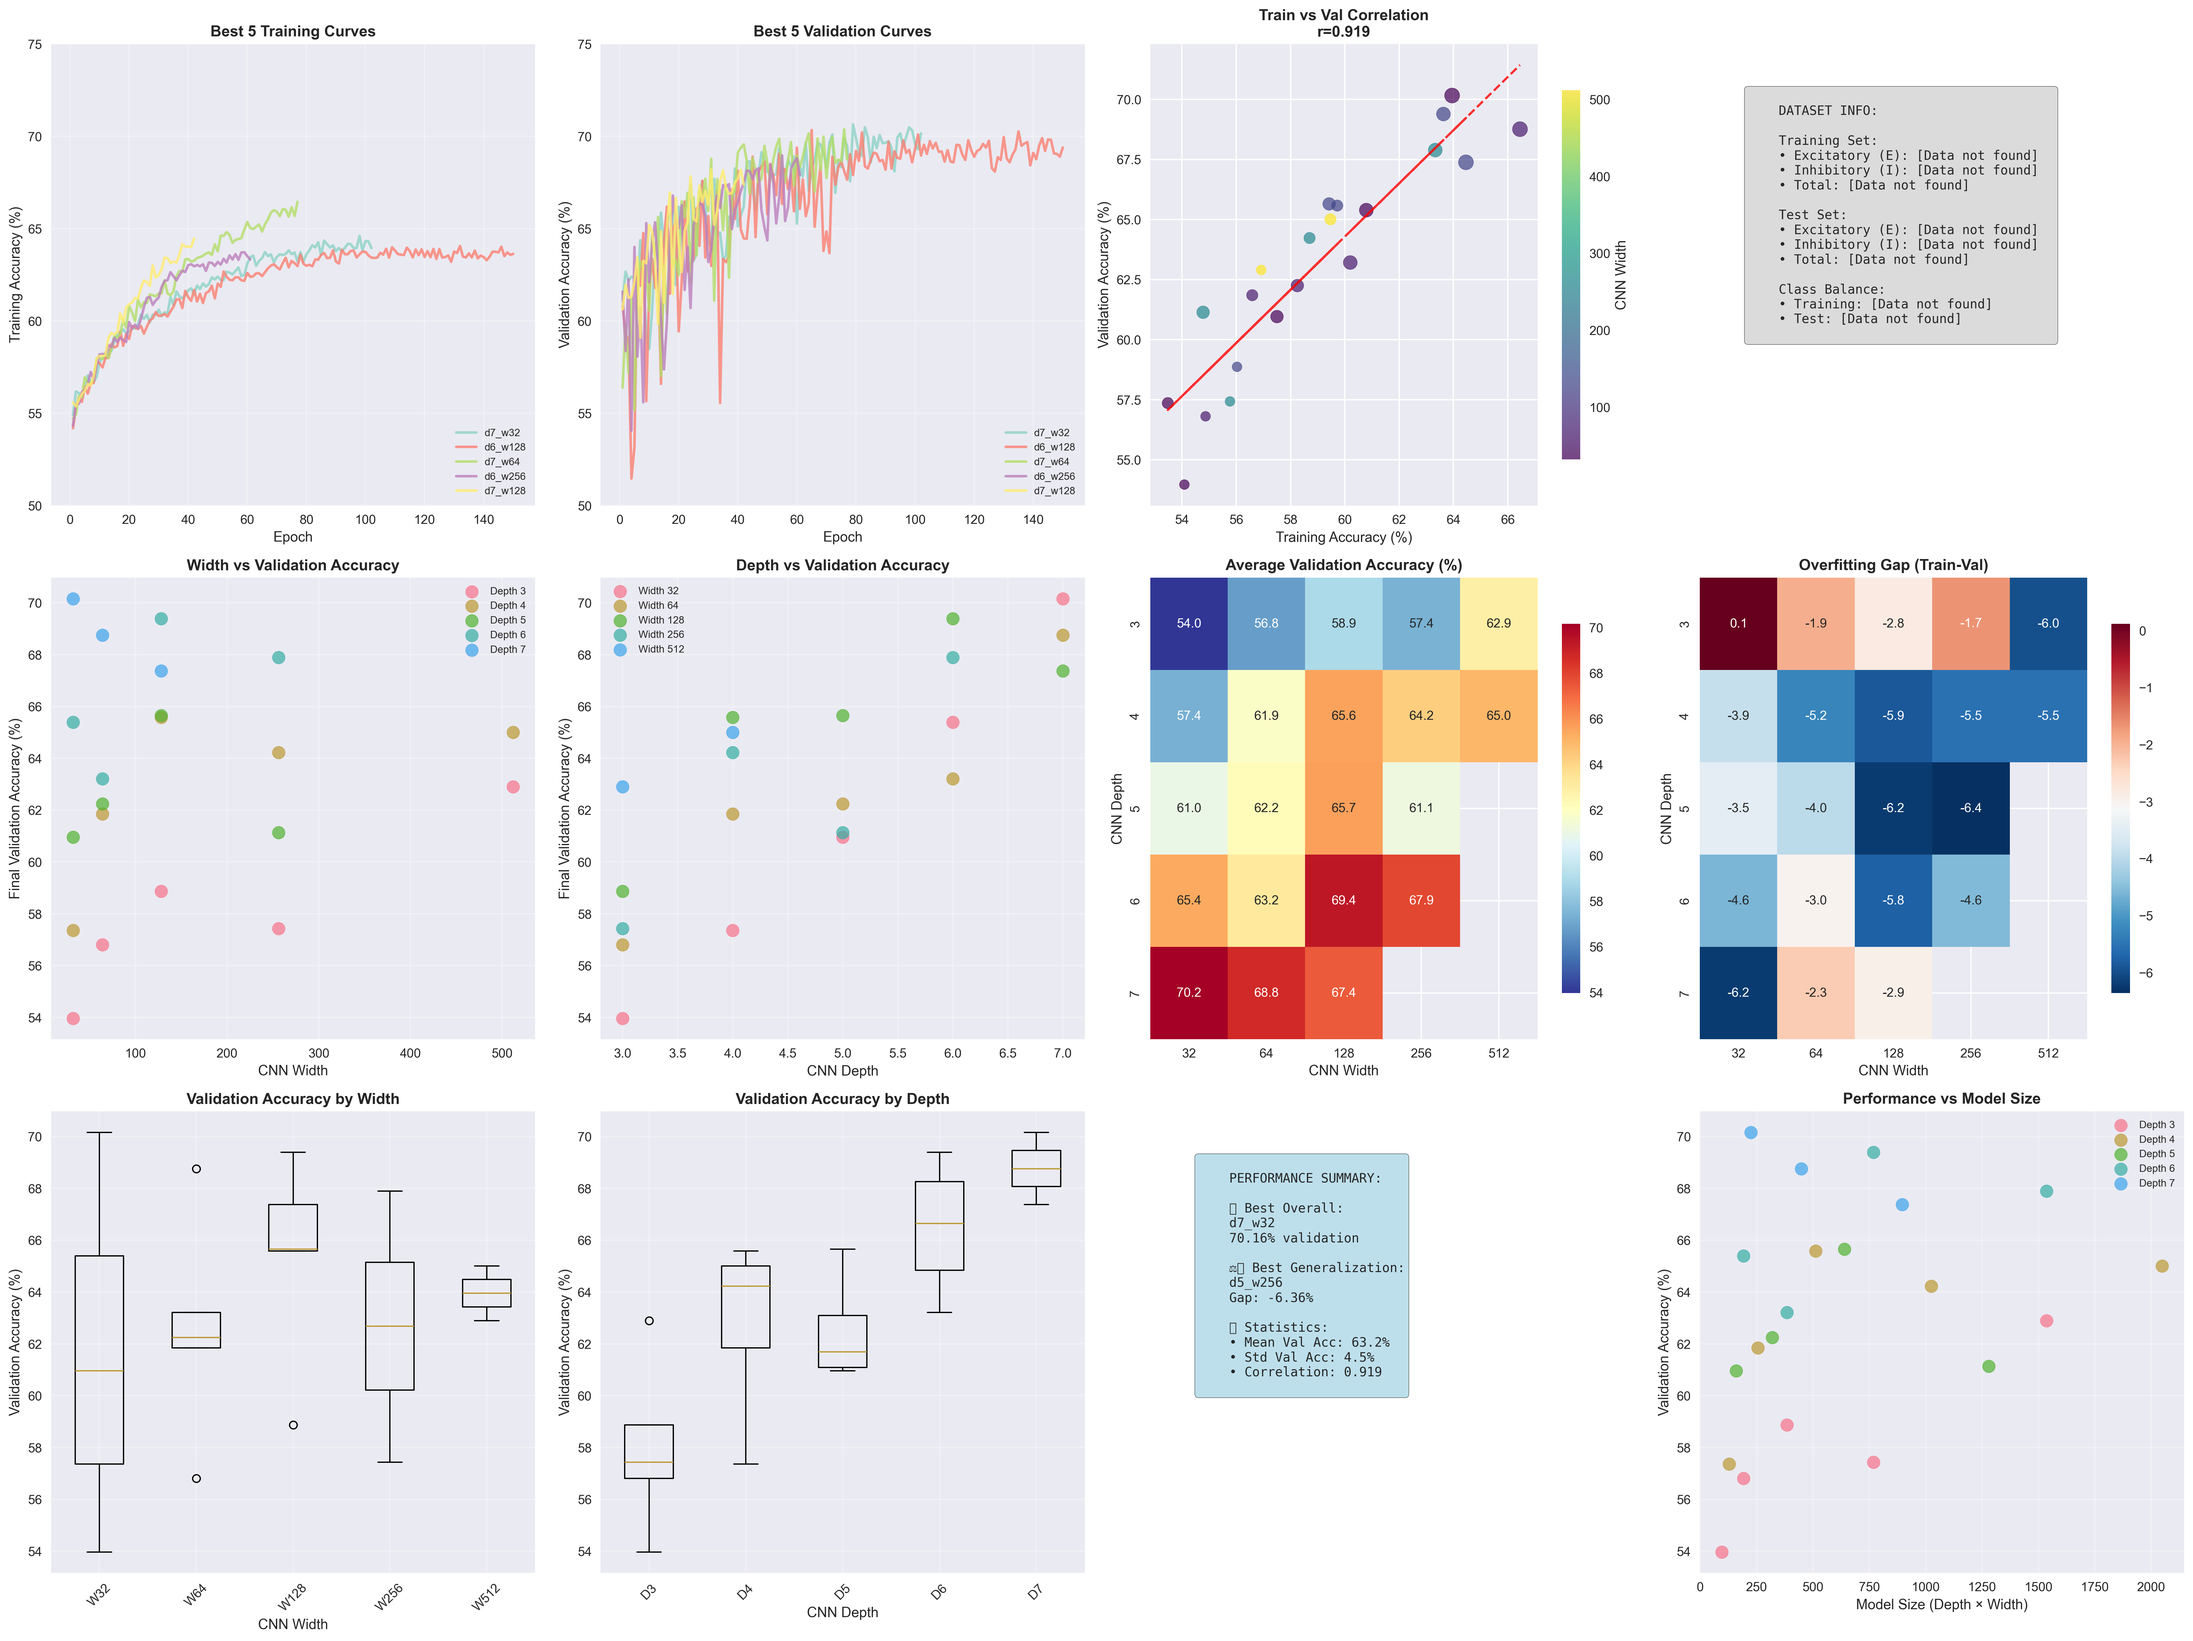
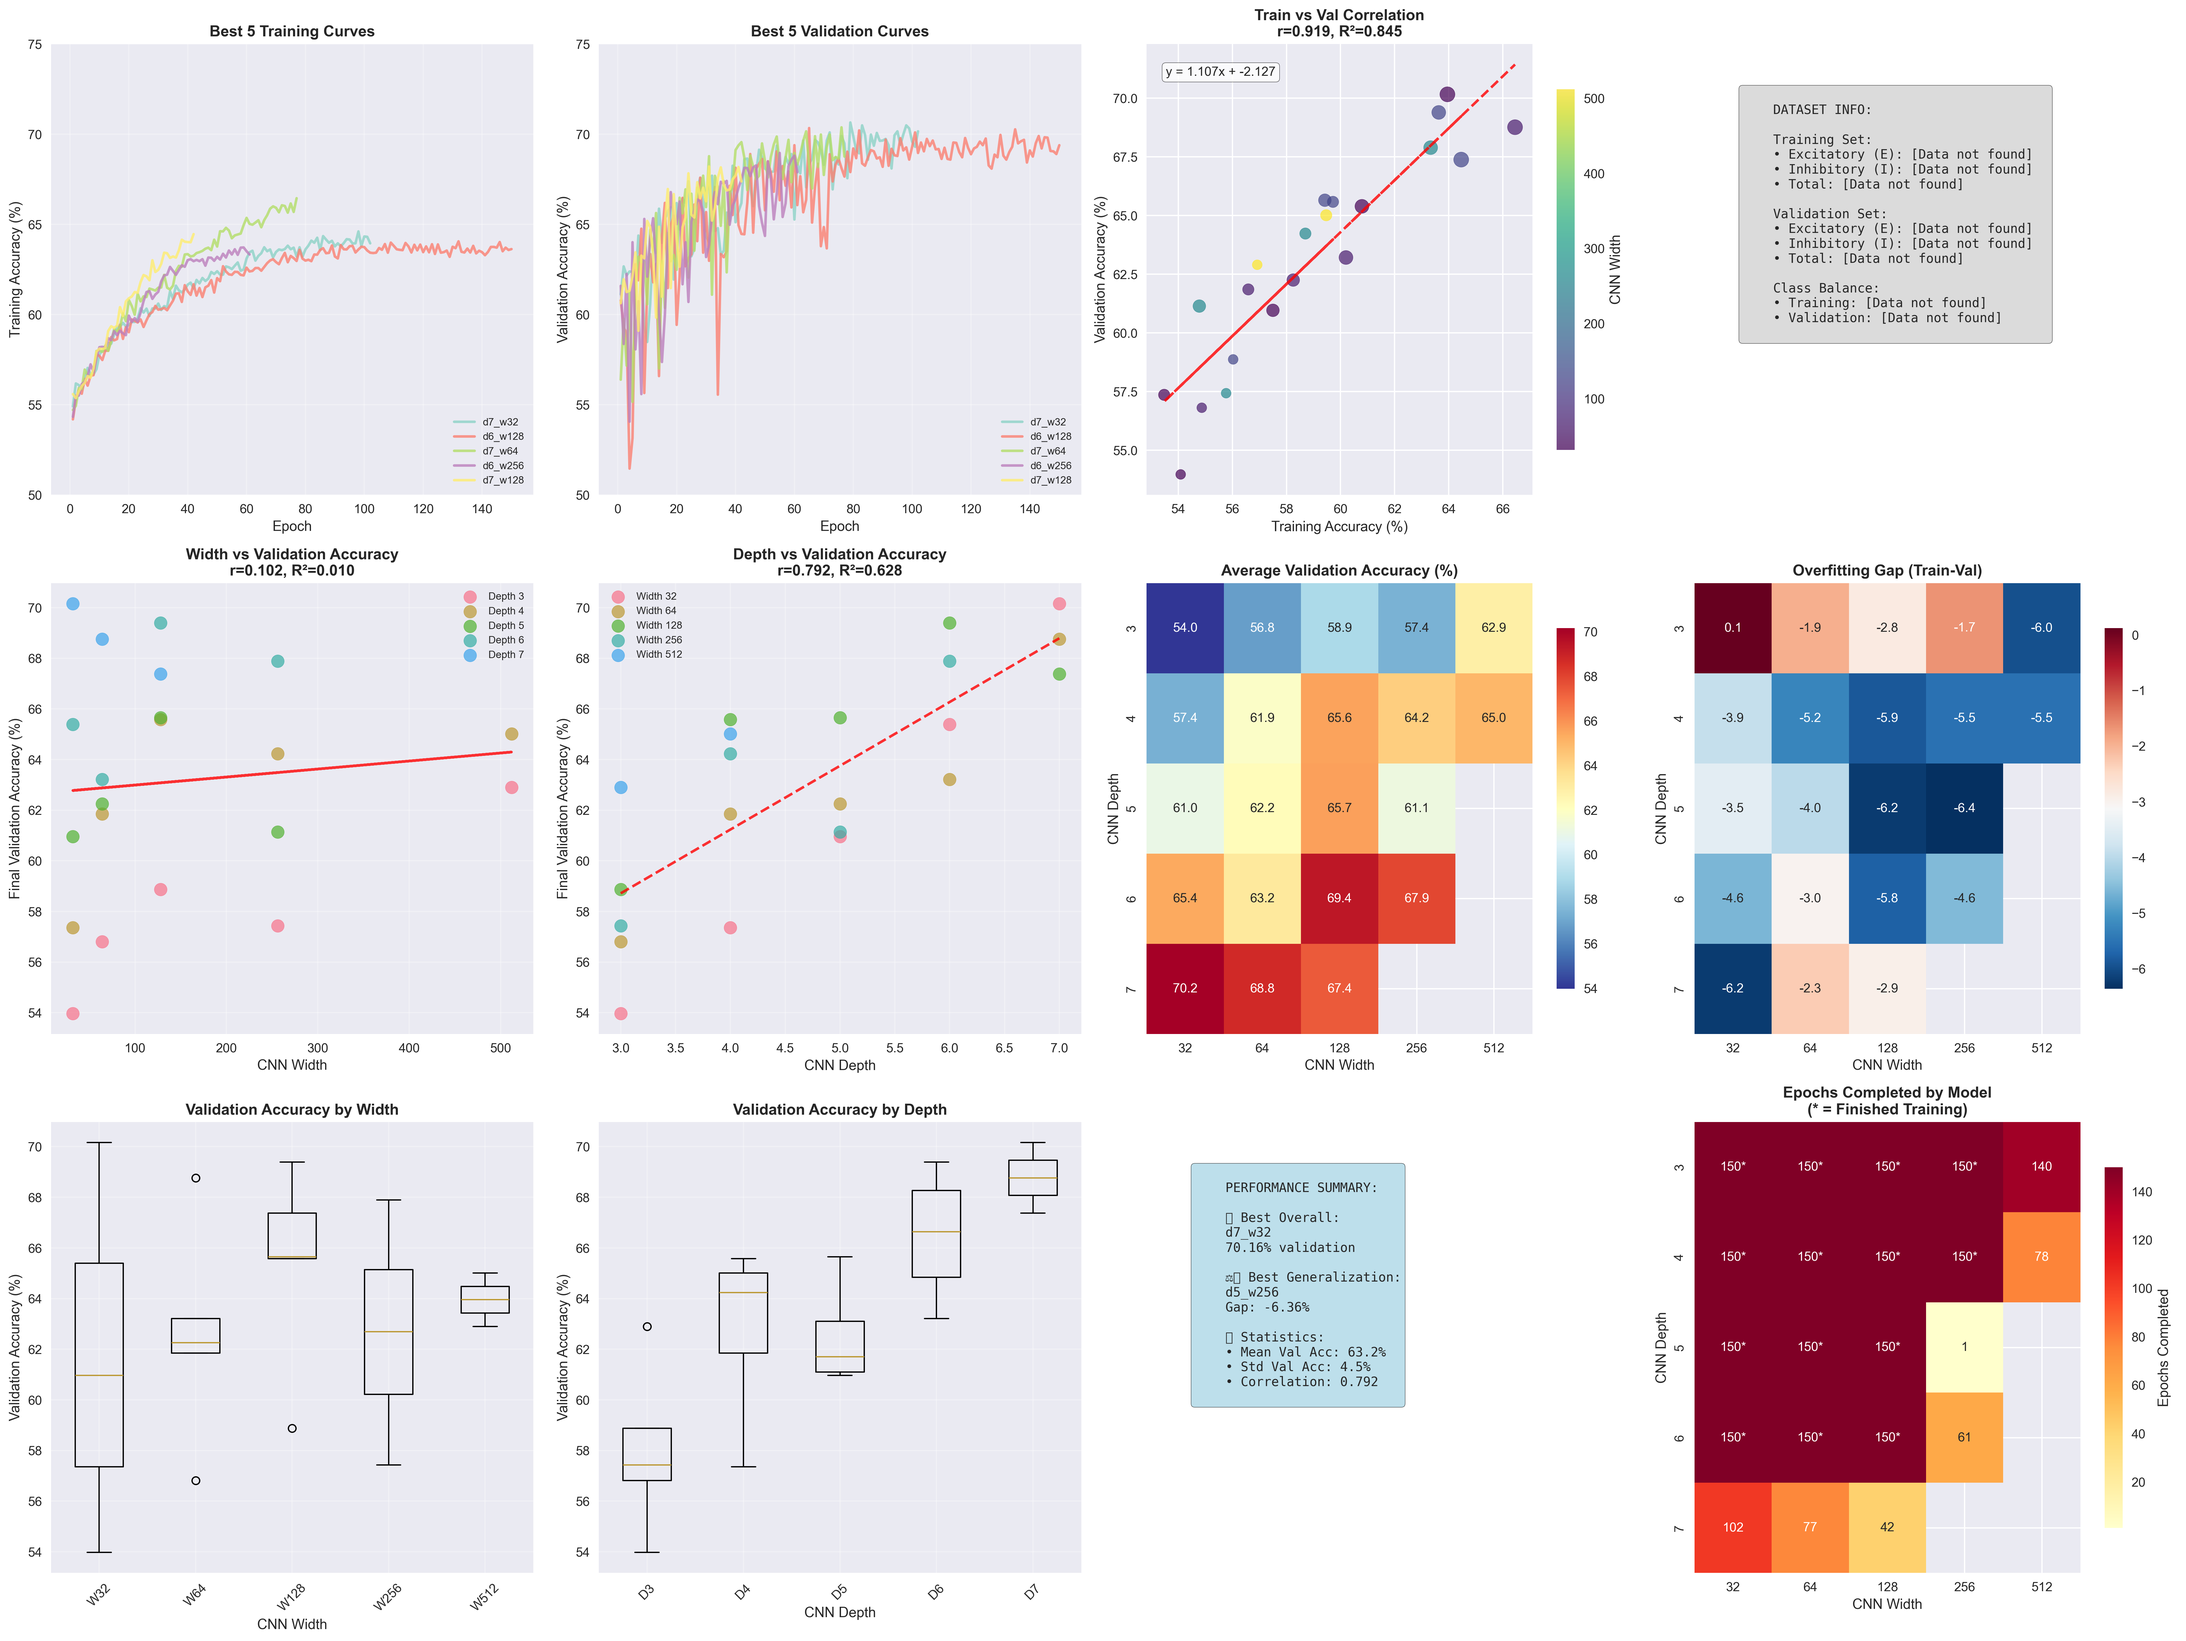
depth sweep analysis

diff --git a/sweep_analysis.py b/sweep_analysis.py
@@ -109,14 +109,24 @@ def create_comprehensive_analysis(df, save_path='comprehensive_sweep_analysis.pn
     # Add trend line
     z = np.polyfit(final_data['train_acc'], final_data['val_acc'], 1)
     p = np.poly1d(z)
-    ax3.plot(final_data['train_acc'], p(final_data['train_acc']), "r--", alpha=0.8)
+    ax3.plot(final_data['train_acc'], p(final_data['train_acc']), "r--", alpha=0.8, linewidth=2)
     
-    # Calculate correlation
+    # Calculate correlation and R-squared
     correlation = final_data['train_acc'].corr(final_data['val_acc'])
+    r_squared = correlation ** 2
+    
+    # Calculate regression equation
+    slope = z[0]
+    intercept = z[1]
     
     ax3.set_xlabel('Training Accuracy (%)')
     ax3.set_ylabel('Validation Accuracy (%)')
-    ax3.set_title(f'Train vs Val Correlation\nr={correlation:.3f}', fontsize=12, fontweight='bold')
+    ax3.set_title(f'Train vs Val Correlation\nr={correlation:.3f}, R²={r_squared:.3f}', fontsize=12, fontweight='bold')
+    
+    # Add regression equation annotation
+    ax3.text(0.05, 0.95, f'y = {slope:.3f}x + {intercept:.3f}', 
+             transform=ax3.transAxes, fontsize=10, verticalalignment='top',
+             bbox=dict(boxstyle="round,pad=0.3", facecolor="white", alpha=0.8))
     
     # Add colorbar
     cbar = plt.colorbar(scatter, ax=ax3, shrink=0.8)
@@ -230,9 +240,18 @@ def create_comprehensive_analysis(df, save_path='comprehensive_sweep_analysis.pn
         ax5.scatter(depth_data['cnn_width'], depth_data['val_acc'], 
                    label=f'Depth {depth}', s=100, alpha=0.7)
     
+    # Add overall regression line
+    z = np.polyfit(final_data['cnn_width'], final_data['val_acc'], 1)
+    p = np.poly1d(z)
+    ax5.plot(final_data['cnn_width'], p(final_data['cnn_width']), "r--", alpha=0.8, linewidth=2)
+    
+    # Calculate correlation and R-squared
+    correlation = final_data['cnn_width'].corr(final_data['val_acc'])
+    r_squared = correlation ** 2
+    
     ax5.set_xlabel('CNN Width')
     ax5.set_ylabel('Final Validation Accuracy (%)')
-    ax5.set_title('Width vs Validation Accuracy', fontsize=12, fontweight='bold')
+    ax5.set_title(f'Width vs Validation Accuracy\nr={correlation:.3f}, R²={r_squared:.3f}', fontsize=12, fontweight='bold')
     ax5.legend(fontsize=8)
     ax5.grid(True, alpha=0.3)
     
@@ -244,9 +263,18 @@ def create_comprehensive_analysis(df, save_path='comprehensive_sweep_analysis.pn
         ax6.scatter(width_data['cnn_depth'], width_data['val_acc'], 
                    label=f'Width {width}', s=100, alpha=0.7)
     
+    # Add overall regression line
+    z = np.polyfit(final_data['cnn_depth'], final_data['val_acc'], 1)
+    p = np.poly1d(z)
+    ax6.plot(final_data['cnn_depth'], p(final_data['cnn_depth']), "r--", alpha=0.8, linewidth=2)
+    
+    # Calculate correlation and R-squared
+    correlation = final_data['cnn_depth'].corr(final_data['val_acc'])
+    r_squared = correlation ** 2
+    
     ax6.set_xlabel('CNN Depth')
     ax6.set_ylabel('Final Validation Accuracy (%)')
-    ax6.set_title('Depth vs Validation Accuracy', fontsize=12, fontweight='bold')
+    ax6.set_title(f'Depth vs Validation Accuracy\nr={correlation:.3f}, R²={r_squared:.3f}', fontsize=12, fontweight='bold')
     ax6.legend(fontsize=8)
     ax6.grid(True, alpha=0.3)
     
@@ -344,22 +372,37 @@ def create_comprehensive_analysis(df, save_path='comprehensive_sweep_analysis.pn
              verticalalignment='top', fontfamily='monospace',
              bbox=dict(boxstyle="round,pad=0.3", facecolor="lightblue", alpha=0.8))
     
-    # Panel 12: Model efficiency (bottom right)
+    # Panel 12: Epochs completed heatmap (bottom right)
     ax12 = plt.subplot(3, 4, 12)
     
-    # Plot efficiency (performance vs model size)
-    final_data['model_size'] = final_data['cnn_depth'] * final_data['cnn_width']
+    # Calculate epochs completed for each model configuration
+    epochs_completed = df.groupby(['cnn_depth', 'cnn_width'])['epoch'].max().reset_index()
+    epochs_pivot = epochs_completed.pivot(index='cnn_depth', columns='cnn_width', values='epoch')
     
-    for depth in sorted(final_data['cnn_depth'].unique()):
-        depth_data = final_data[final_data['cnn_depth'] == depth]
-        ax12.scatter(depth_data['model_size'], depth_data['val_acc'], 
-                    label=f'Depth {depth}', s=100, alpha=0.7)
+    # Determine if models finished (assuming 150 epochs is the target)
+    target_epochs = 150  # This should match the EPOCHS setting in the training script
+    finished_models = epochs_completed[epochs_completed['epoch'] >= target_epochs]
     
-    ax12.set_xlabel('Model Size (Depth × Width)')
-    ax12.set_ylabel('Validation Accuracy (%)')
-    ax12.set_title('Performance vs Model Size', fontsize=12, fontweight='bold')
-    ax12.legend(fontsize=8)
-    ax12.grid(True, alpha=0.3)
+    # Create annotations with asterisks for finished models
+    annot_data = epochs_pivot.copy()
+    for depth in epochs_pivot.index:
+        for width in epochs_pivot.columns:
+            if not pd.isna(epochs_pivot.loc[depth, width]):
+                epochs = int(epochs_pivot.loc[depth, width])
+                # Check if this model finished
+                is_finished = len(finished_models[(finished_models['cnn_depth'] == depth) & 
+                                                (finished_models['cnn_width'] == width)]) > 0
+                if is_finished:
+                    annot_data.loc[depth, width] = f"{epochs}*"
+                else:
+                    annot_data.loc[depth, width] = f"{epochs}"
+    
+    # Create heatmap
+    sns.heatmap(epochs_pivot, annot=annot_data, fmt='', cmap='YlOrRd', ax=ax12, 
+                cbar_kws={'shrink': 0.8, 'label': 'Epochs Completed'})
+    ax12.set_title('Epochs Completed by Model\n(* = Finished Training)', fontsize=12, fontweight='bold')
+    ax12.set_xlabel('CNN Width')
+    ax12.set_ylabel('CNN Depth')
     
     plt.tight_layout()
     plt.savefig(save_path, dpi=300, bbox_inches='tight')
@@ -394,10 +437,47 @@ def print_summary_statistics(df, best_runs_df, correlation):
     print(f"   • Std validation accuracy: {final_data['val_acc'].std():.2f}%")
     print(f"   • Train-Val correlation: {correlation:.3f}")
     
+    # Calculate regression statistics for all relationships
+    train_val_corr = final_data['train_acc'].corr(final_data['val_acc'])
+    train_val_r2 = train_val_corr ** 2
+    width_val_corr = final_data['cnn_width'].corr(final_data['val_acc'])
+    width_val_r2 = width_val_corr ** 2
+    depth_val_corr = final_data['cnn_depth'].corr(final_data['val_acc'])
+    depth_val_r2 = depth_val_corr ** 2
+    
+    print(f"\n📊 REGRESSION STATISTICS:")
+    print(f"   • Train vs Val: r={train_val_corr:.3f}, R²={train_val_r2:.3f}")
+    print(f"   • Width vs Val: r={width_val_corr:.3f}, R²={width_val_r2:.3f}")
+    print(f"   • Depth vs Val: r={depth_val_corr:.3f}, R²={depth_val_r2:.3f}")
+    
     print(f"\n🔍 DEPTH ANALYSIS:")
     depth_stats = final_data.groupby('cnn_depth')['val_acc'].agg(['mean', 'std', 'max']).round(2)
     for depth, stats in depth_stats.iterrows():
         print(f"   • Depth {depth}: Mean={stats['mean']}%, Std={stats['std']}%, Max={stats['max']}%")
+    
+    print(f"\n⏱  TRAINING PROGRESS:")
+    # Calculate epochs completed for each model
+    epochs_completed = df.groupby(['cnn_depth', 'cnn_width'])['epoch'].max().reset_index()
+    target_epochs = 150  # Should match EPOCHS in training script
+    
+    finished_models = epochs_completed[epochs_completed['epoch'] >= target_epochs]
+    total_models = len(epochs_completed)
+    completed_models = len(finished_models)
+    
+    print(f"   • Total model configurations: {total_models}")
+    print(f"   • Completed training ({target_epochs} epochs): {completed_models} ({completed_models/total_models*100:.1f}%)")
+    print(f"   • Incomplete training: {total_models - completed_models}")
+    
+    if len(finished_models) > 0:
+        print(f"   • Completed models:")
+        for _, model in finished_models.iterrows():
+            print(f"     - d{model['cnn_depth']}_w{model['cnn_width']}: {model['epoch']} epochs")
+    
+    if len(epochs_completed[epochs_completed['epoch'] < target_epochs]) > 0:
+        print(f"   • Incomplete models:")
+        incomplete = epochs_completed[epochs_completed['epoch'] < target_epochs]
+        for _, model in incomplete.iterrows():
+            print(f"     - d{model['cnn_depth']}_w{model['cnn_width']}: {model['epoch']} epochs")
     
     print(f"\n🔍 WIDTH ANALYSIS:")
     width_stats = final_data.groupby('cnn_width')['val_acc'].agg(['mean', 'std', 'max']).round(2)
